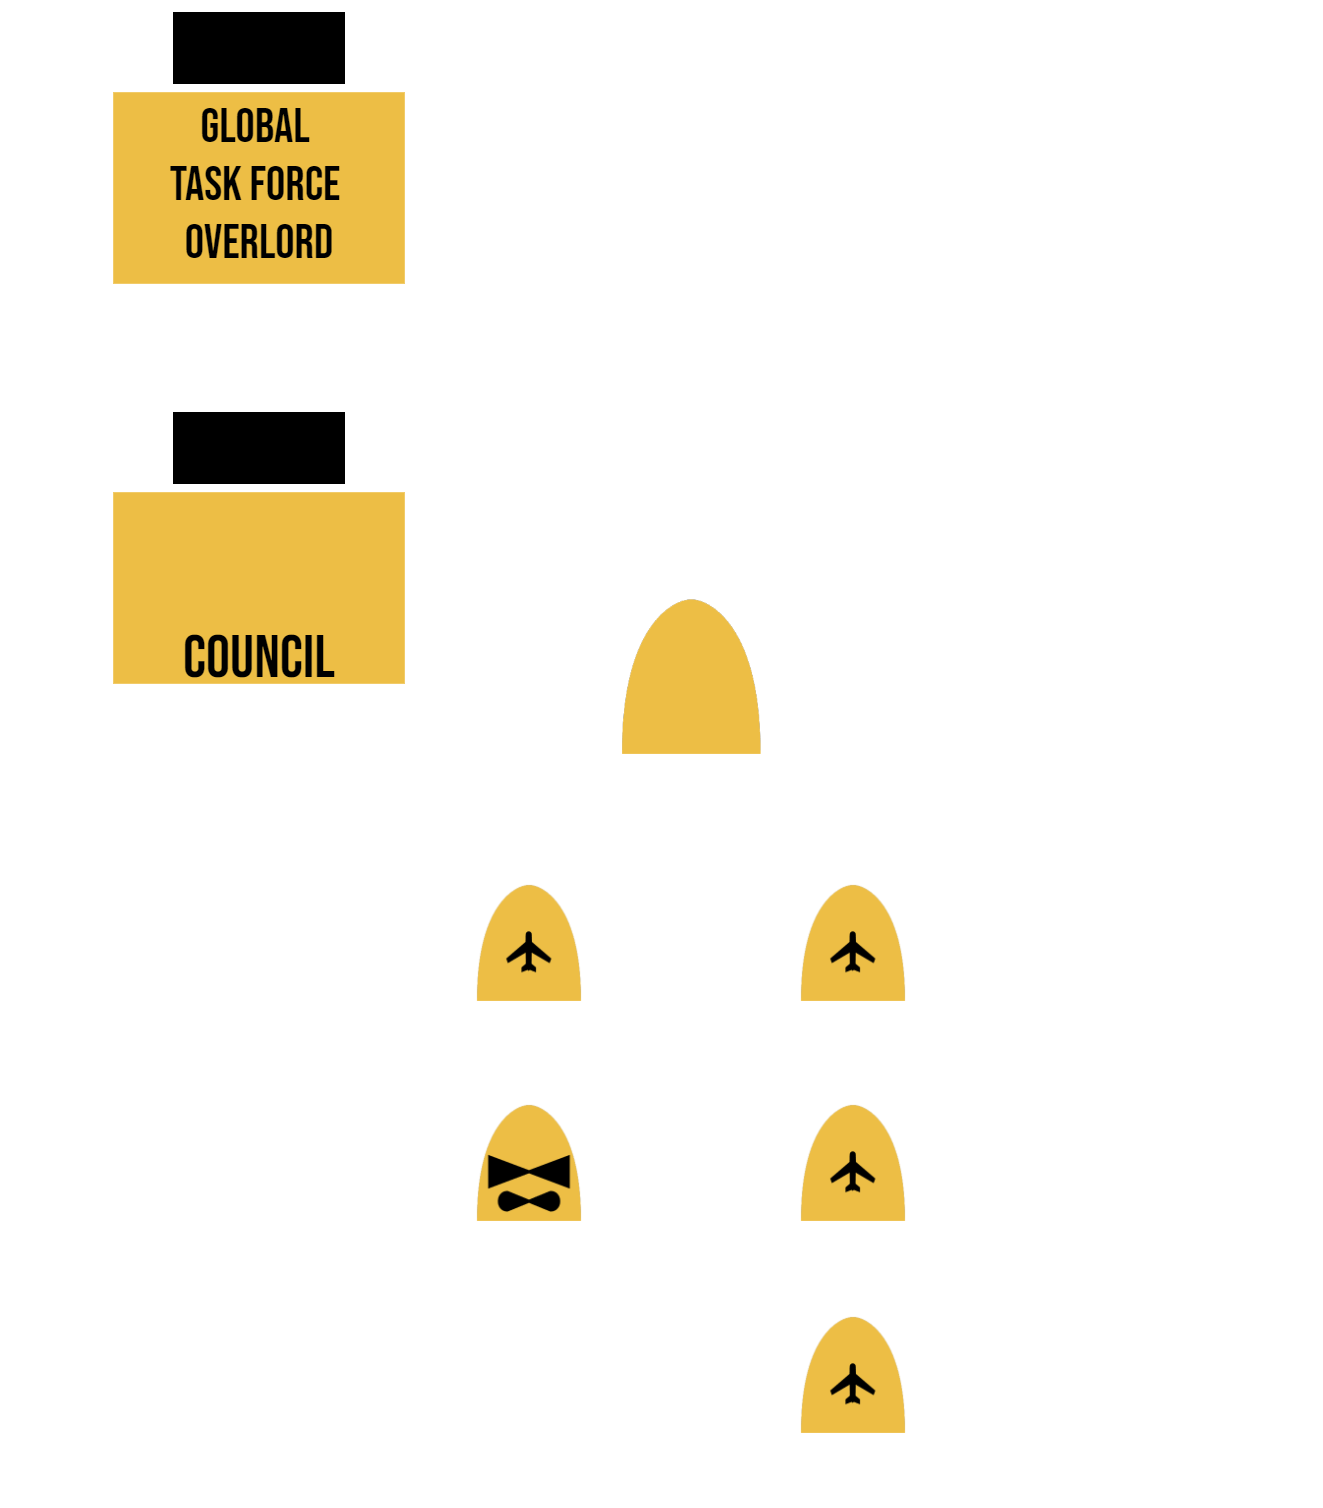
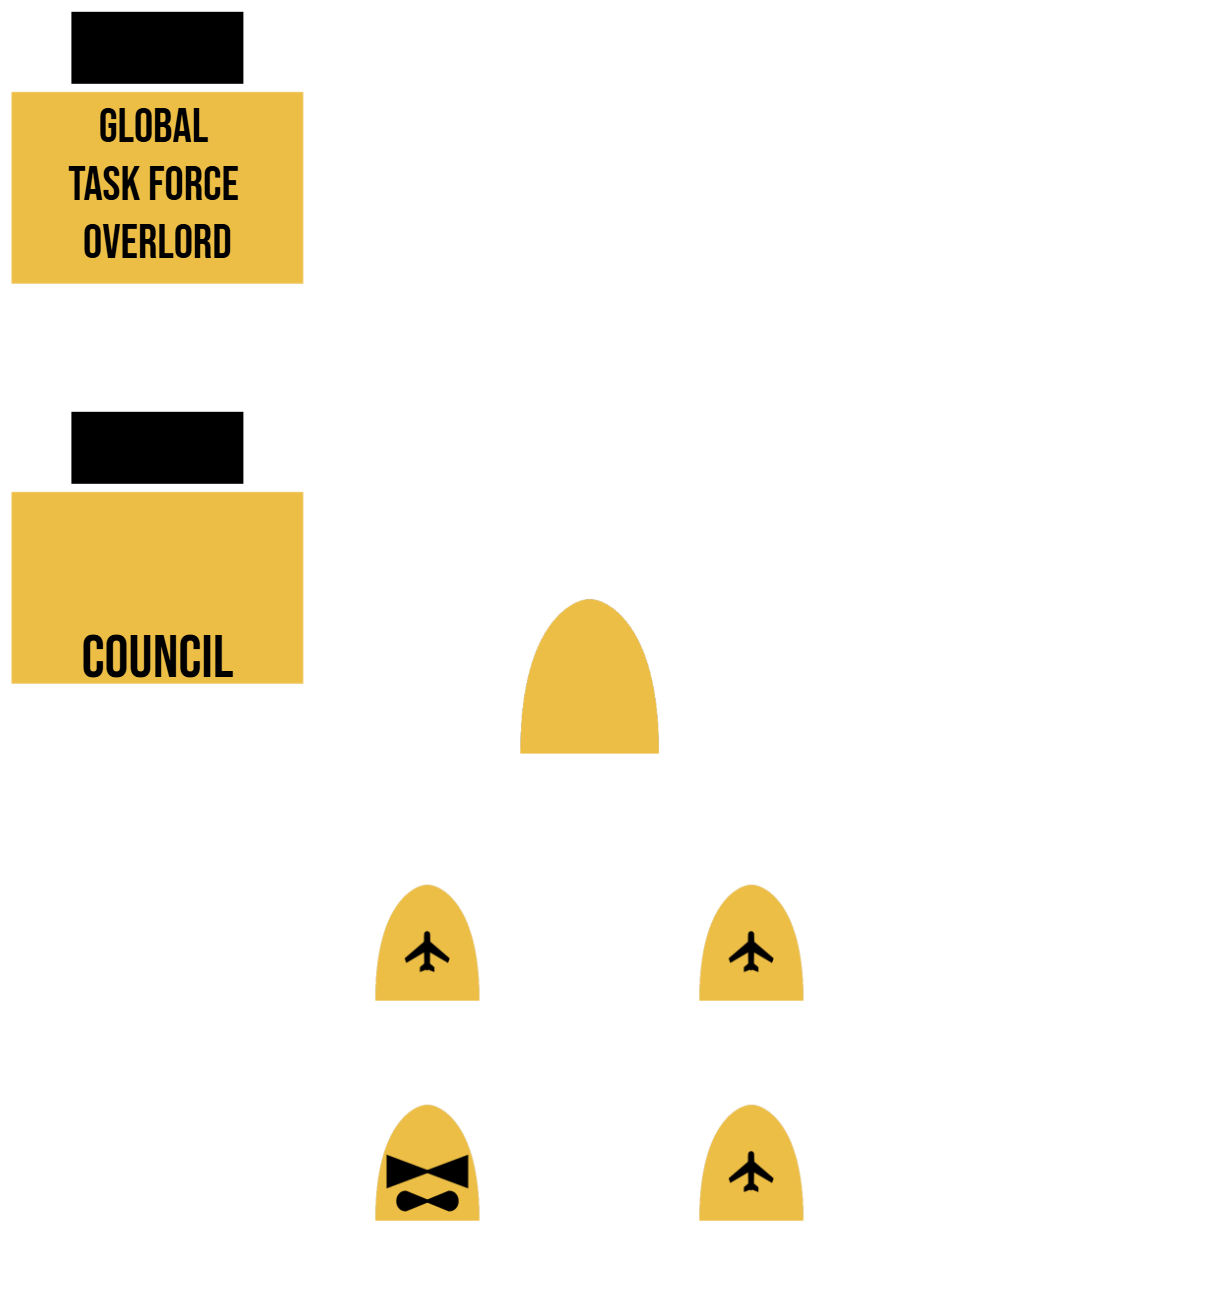
Remove 479th Fighter Interceptor Squadron documentation and navigation link; update org chart to reflect vacancy in leadership.

diff --git a/src/lib/navigation.ts b/src/lib/navigation.ts
@@ -14,7 +14,6 @@ export const navigation = [
     links: [
       { title: '19th AAB', href: '/docs/squadrons/19th' },
       { title: '449th TFS', href: '/docs/squadrons/449th' },
-      { title: '479th FIS', href: '/docs/squadrons/479th' },
       { title: '507th FS', href: '/docs/squadrons/507th' },
       { title: 'VF-141', href: '/docs/squadrons/VF-141' },
     ],

diff --git a/src/app/docs/org-chart/page.md b/src/app/docs/org-chart/page.md
@@ -18,7 +18,7 @@ The current Council, as of **18 Dec 2025** is as follows:
 | :------------------- | ------------- |
 | Flash                | Cookie        |
 | Maraud               | Dragon 47     |
-| Schilly              | Sparkplug     |
+| Schilly              | * *Vacant*     |
 | Seamus               |               |
 
 ## Activity Tiers: Core vs. Community
@@ -44,7 +44,6 @@ See the individual pages for each of the other squadrons in the side menu and be
 
 - [19th AAB](squadrons/19th)
 - [449th TFS](squadrons/449th)
-- [479th FIS](squadrons/479th)
 - [507th FS](squadrons/507th)
 - [VF-141](squadrons/VF-141)
 
@@ -54,6 +53,7 @@ See the individual pages for each of the other squadrons in the side menu and be
 
 | #     | Short Summary              | Date of Approval |
 | :---- | -------------------------- | ---------------: |
+| 0.0.8 | Org Chart Update           |        09 Aug 26 |
 | 0.0.7 | Core vs. Community Update  |        02 Feb 26 |
 | 0.0.6 | 62nd Dissolution           |        03 Jan 26 |
 | 0.0.5 | Name Fixed                 |        03 Jan 26 |
